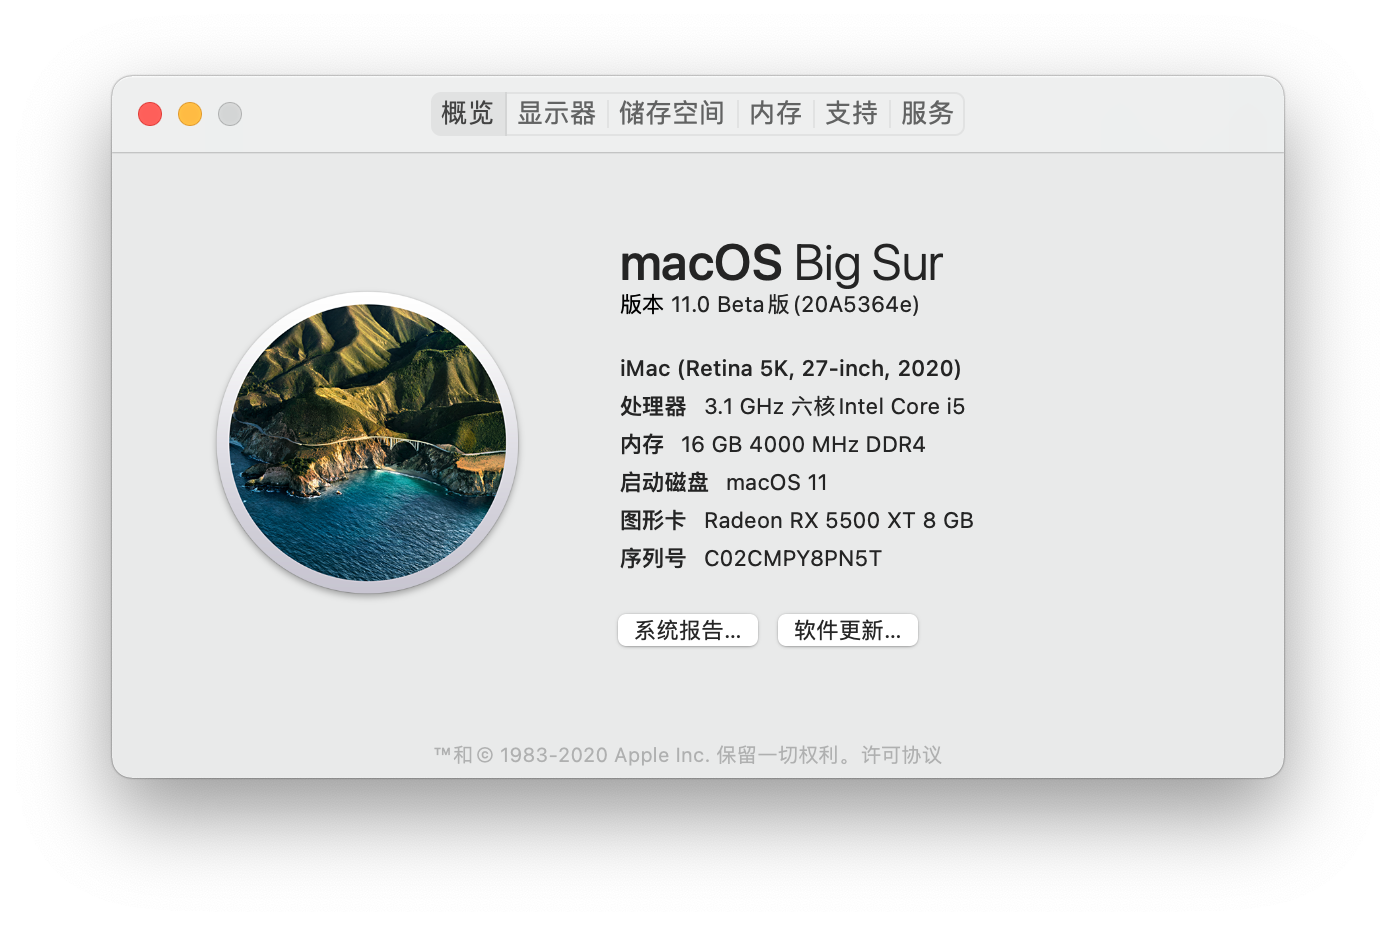
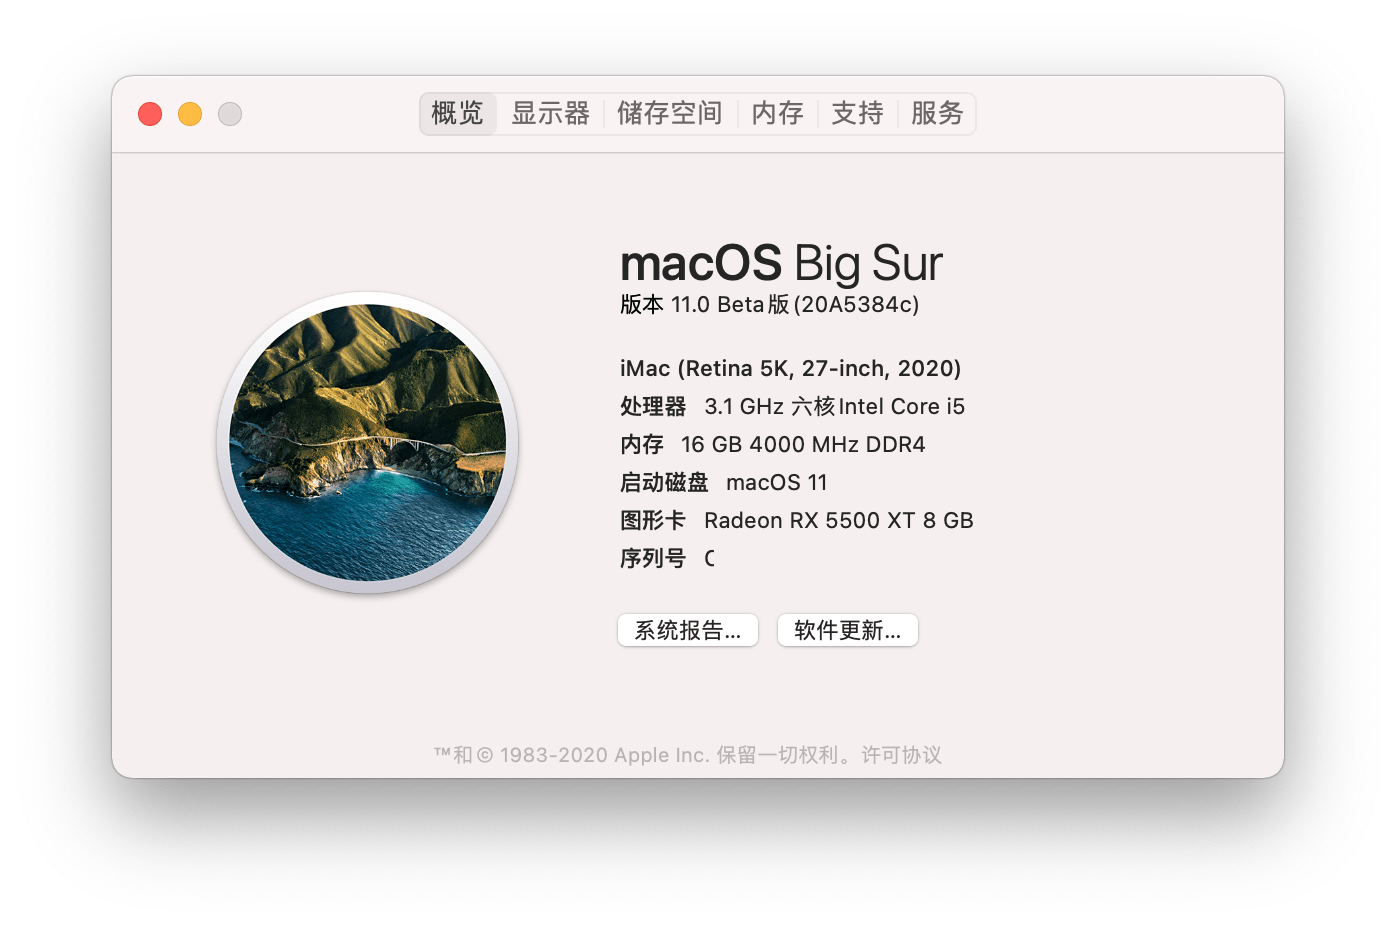
change readme and picture

Changed region(s): [[0.308, 0.0907, 0.7085, 0.1512], [0.5236, 0.5745, 0.616, 0.635]]

diff --git a/README.md b/README.md
@@ -11,7 +11,7 @@ ASRock Z490M-ITX/ac Hackintosh OpenCore
 |Wifi/蓝牙|Broadcom DW1560|
 
 
-macOS Catalina 10.15.6 + macOS Big Sur 10.16 beta6
+macOS Catalina 10.15.6 + macOS Big Sur 10.16 beta9
 
 按照官方指引 Comet Lake 做的引导
 
